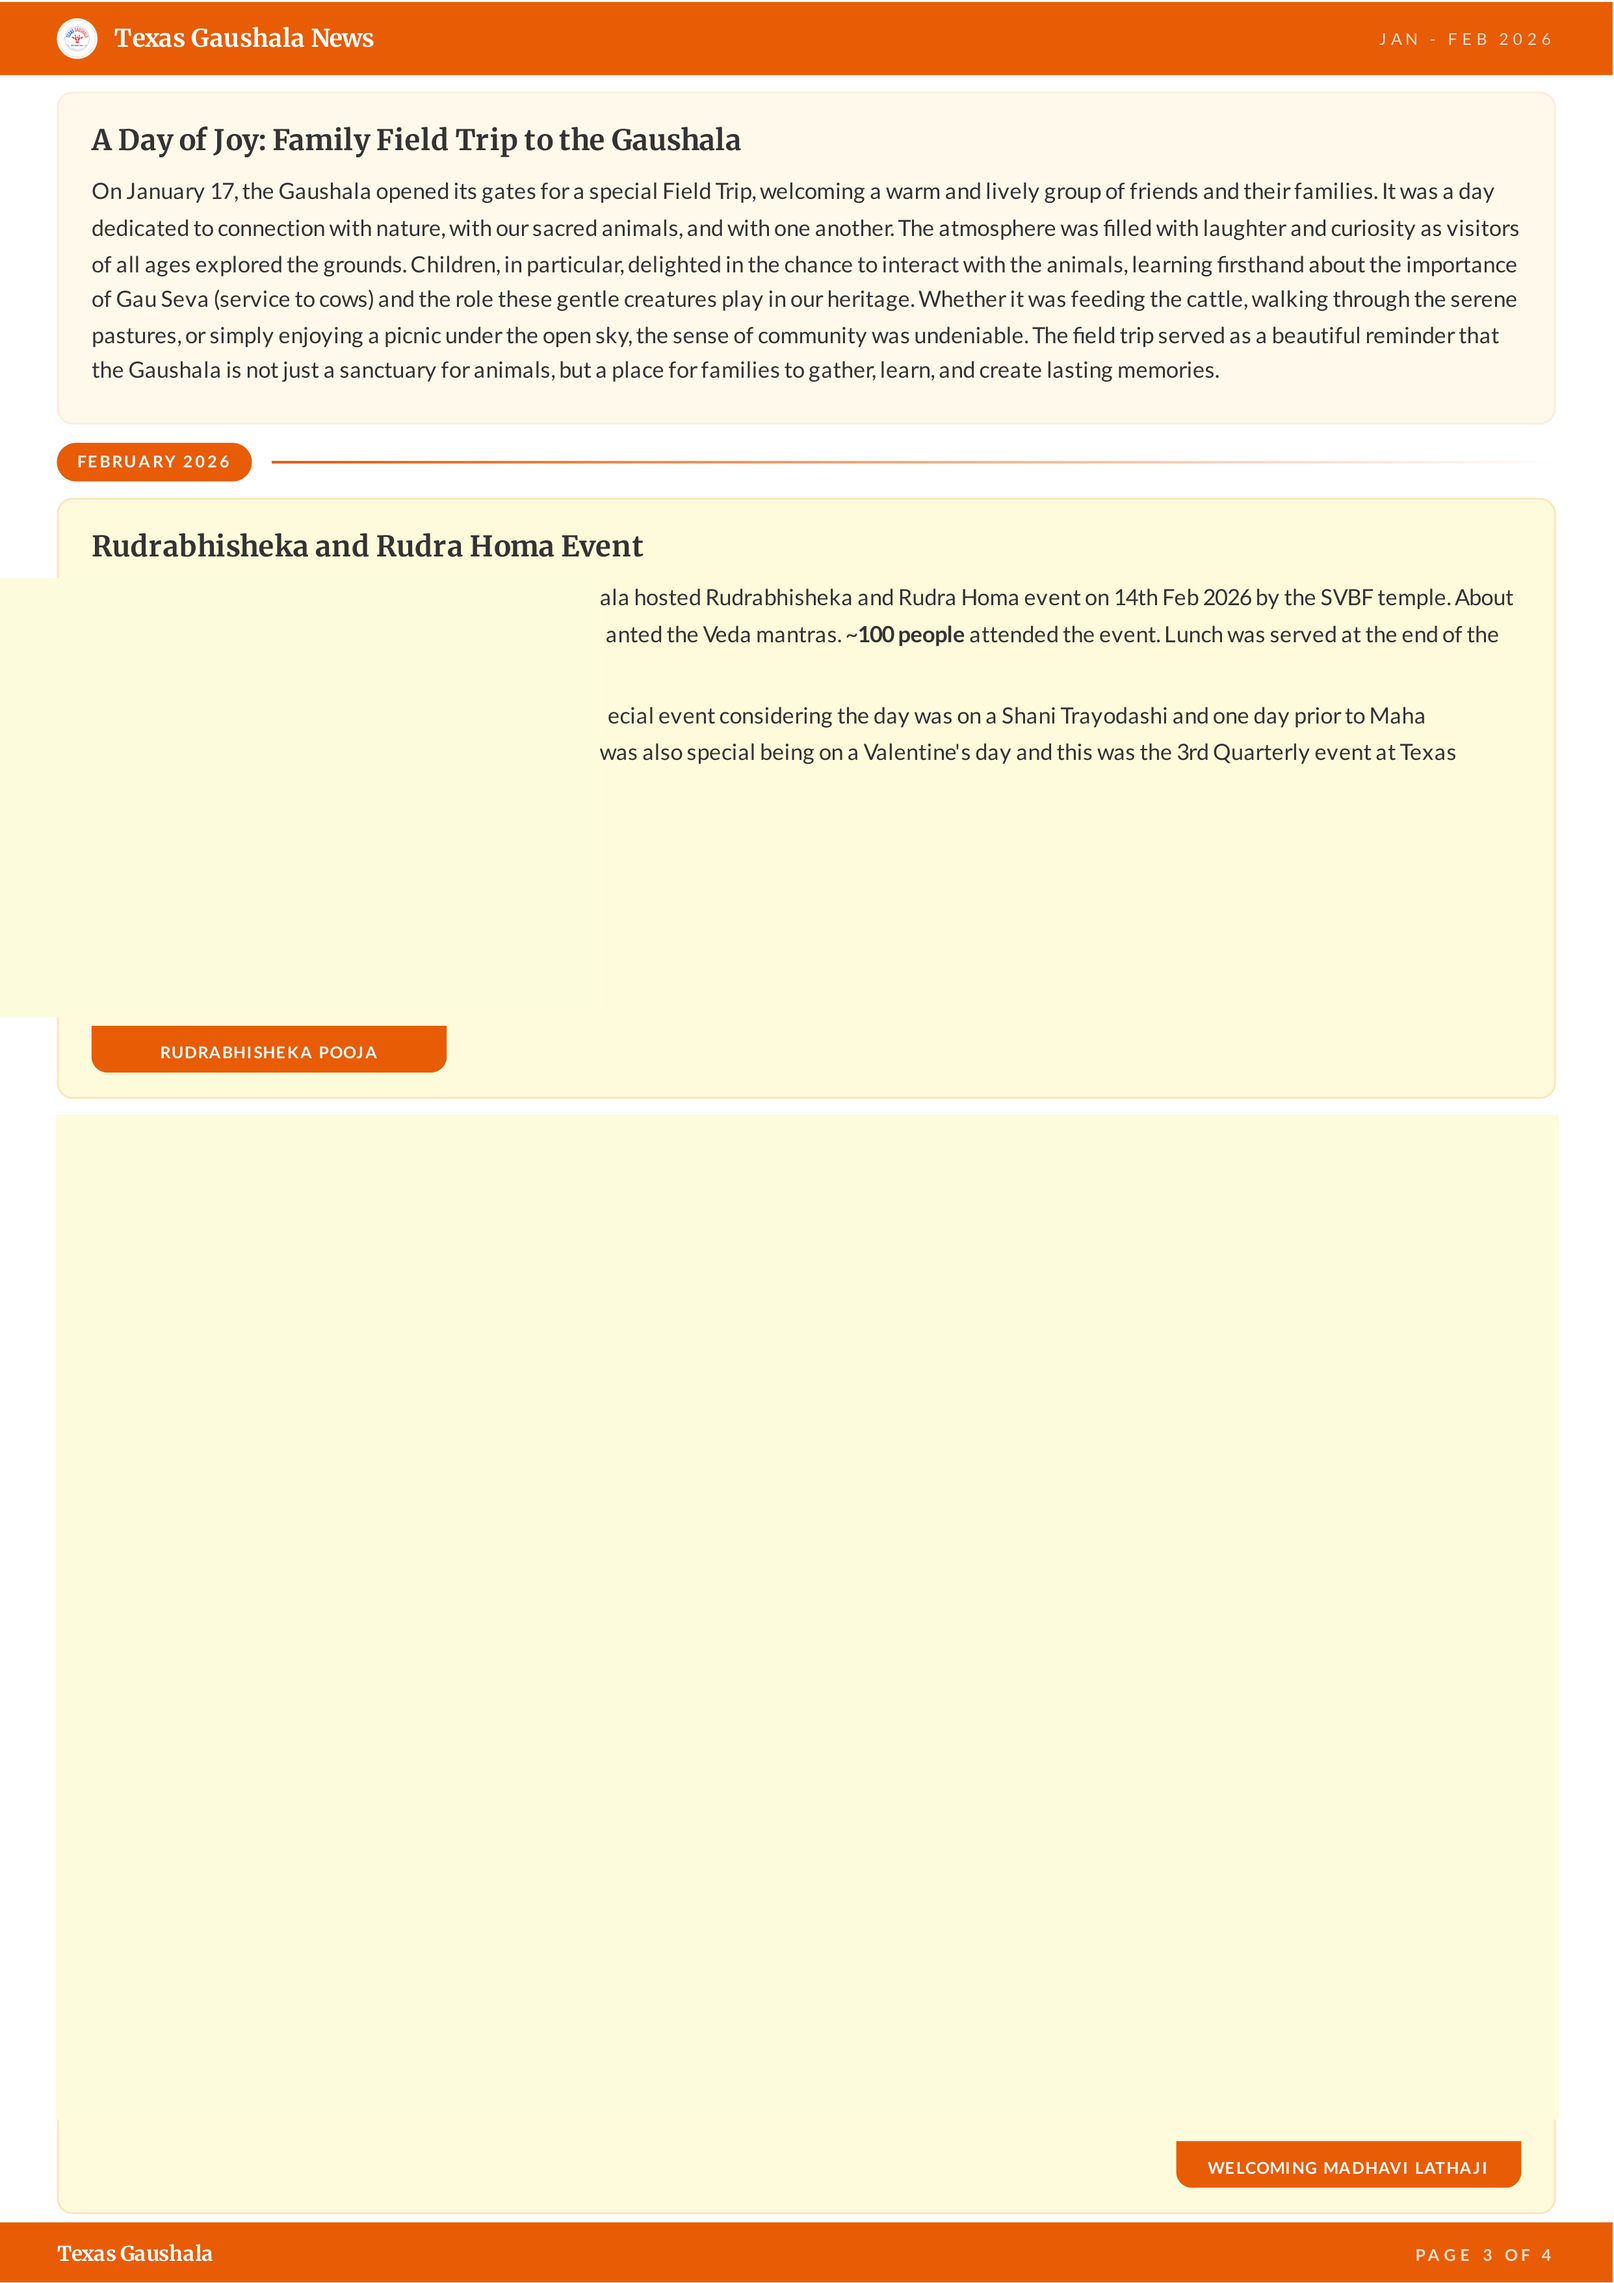
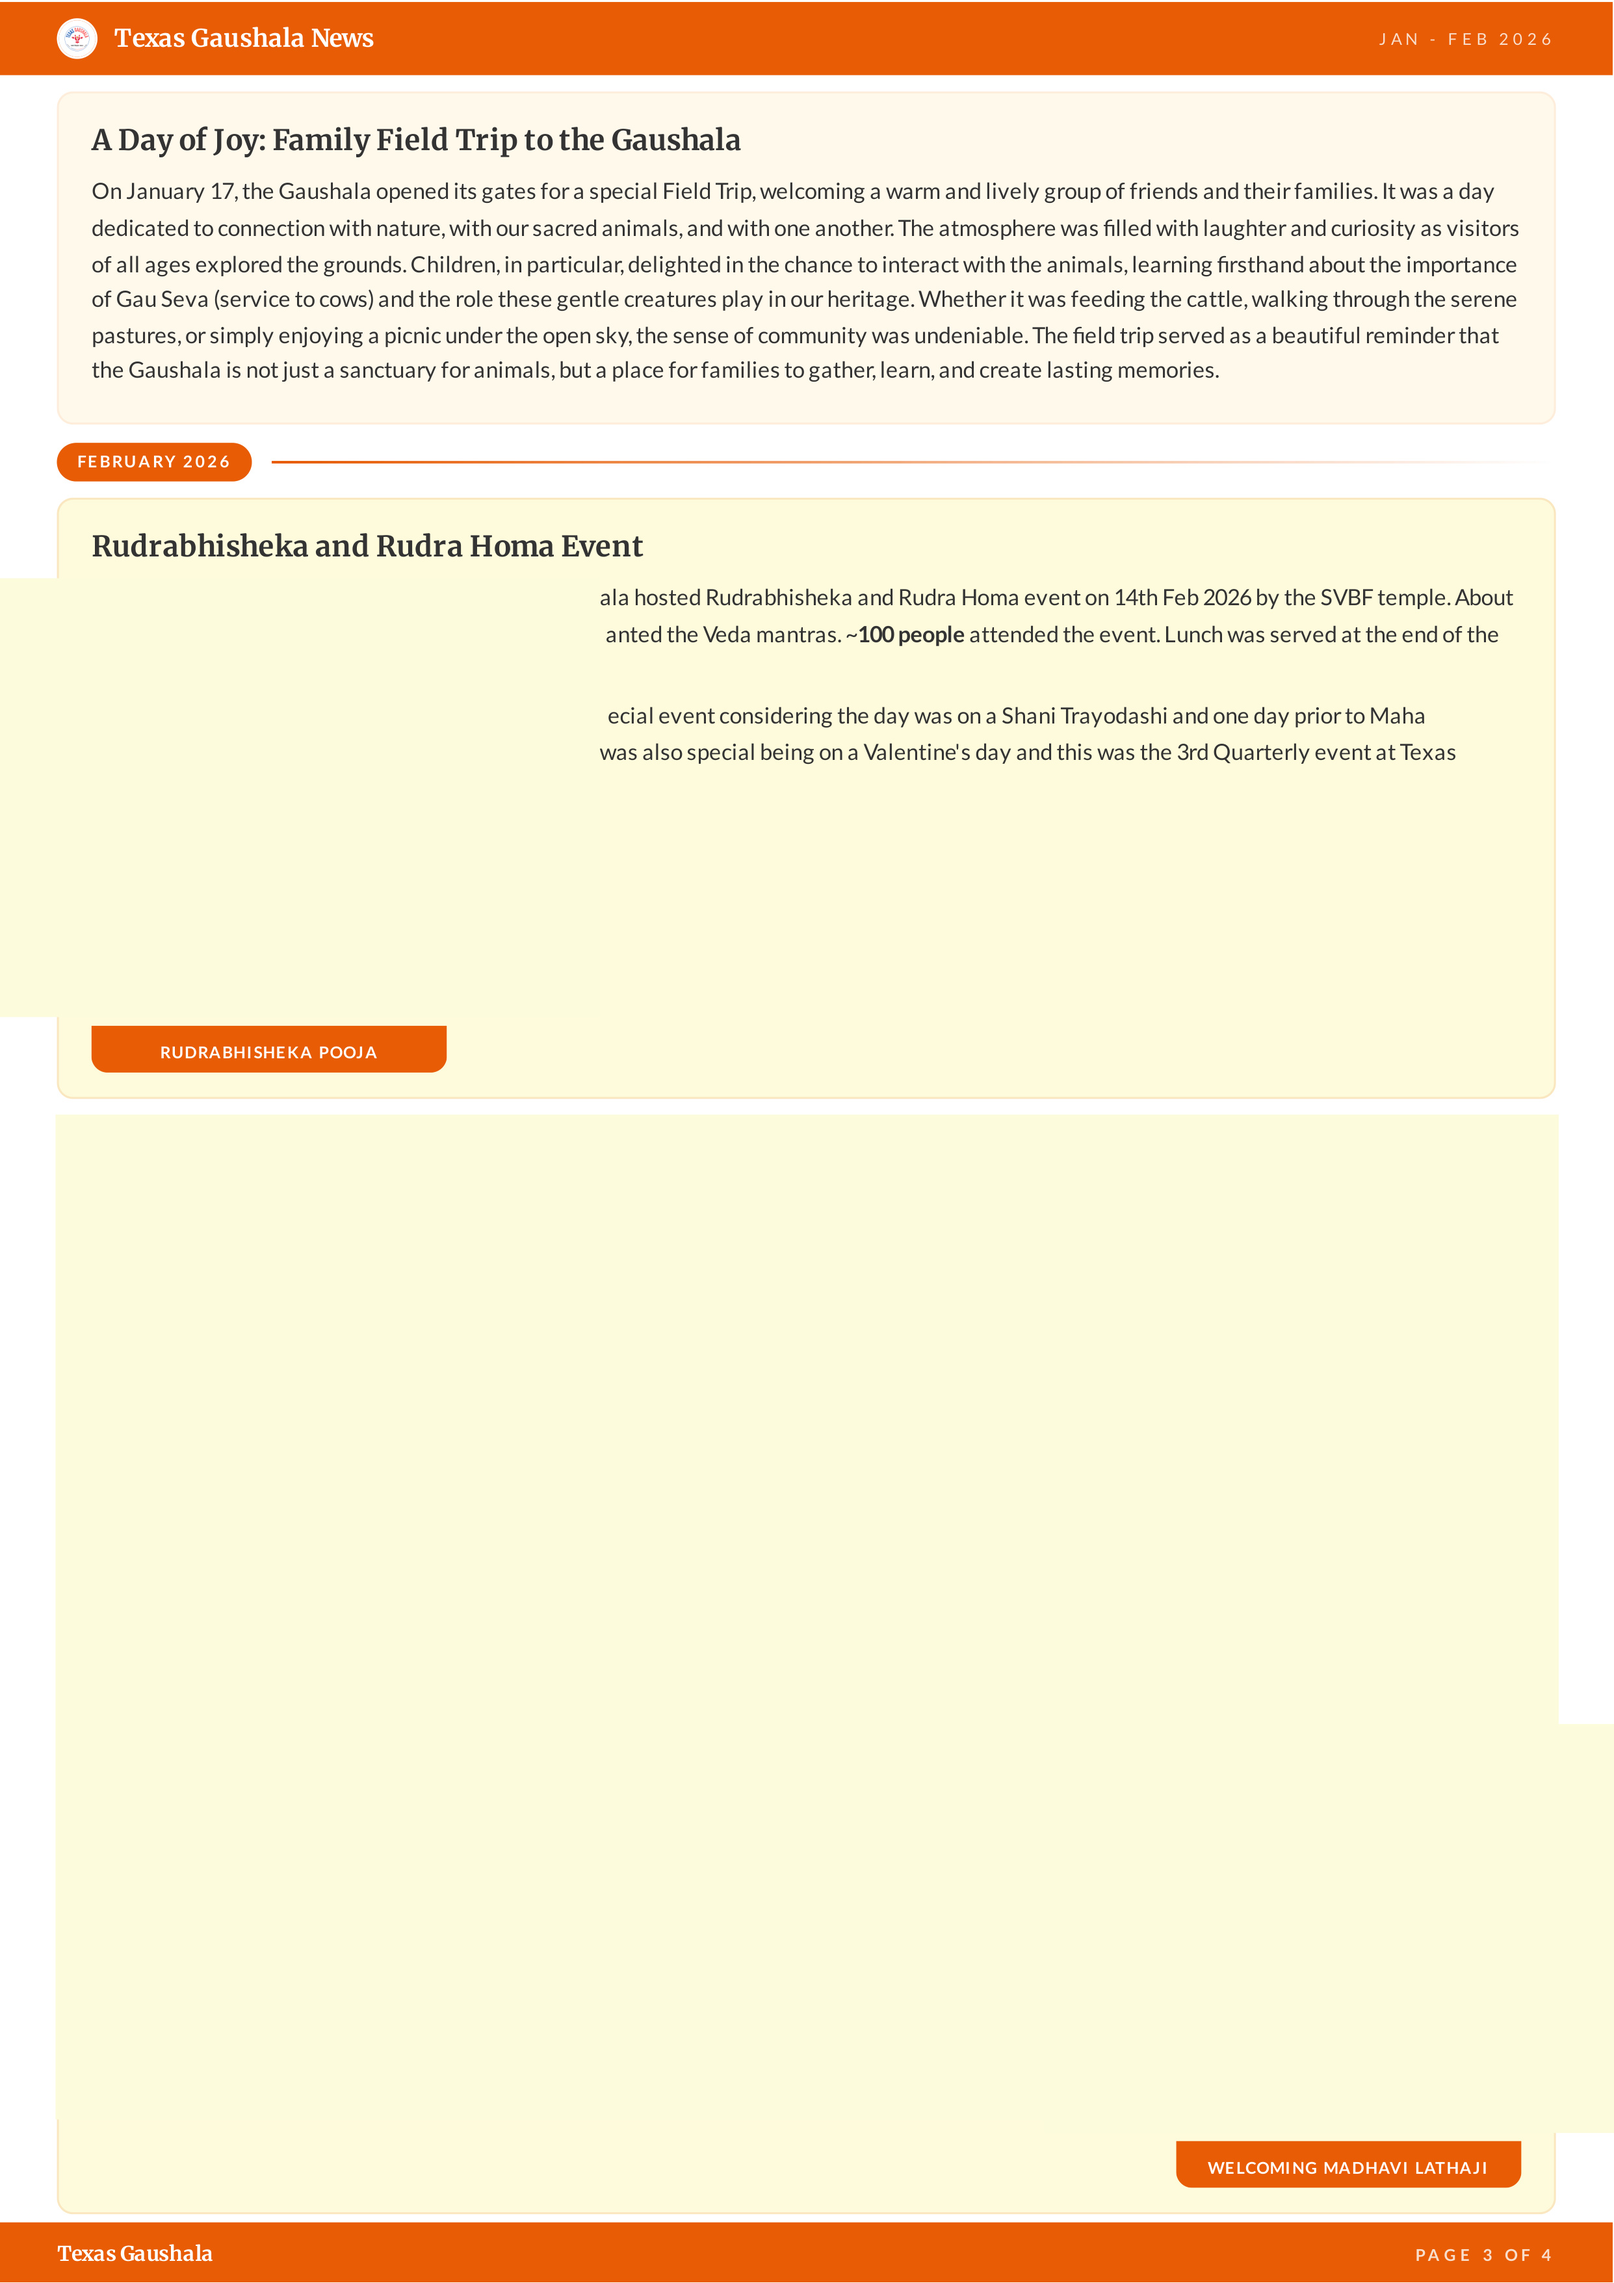
fix: page 3 no overlap - field trip text full width, cards below in cream areas, all photos extracted

Changed region(s): [[0.9613, 0.7449, 1.0, 0.9621]]

diff --git a/index.html b/index.html
@@ -155,25 +155,20 @@ Sacred Pooja: A morning ceremony held at the Gaushala to offer thanks and seek b
 <div class="pw" id="p3">
   <img class="bg" src="images_new/page-3.jpg">
 
-  <!-- P3 Images (original 3512px proportions, PyMuPDF clean render) -->
+  <!-- P3: Logo + header (transparent overlays on original page text) -->
   <div class="iz" id="img-logo-3" data-label="Logo P3" style="left:3.5%;top:0.9%;width:2.2%;height:1.5%;" onclick="si(this)"><span class="lb">Logo</span></div>
-  <!-- P3 Text (transparent .tz overlays, original page text shows through) -->
   <div class="tz" contenteditable="true" style="left:7%;top:1.1%;width:16%;height:1.2%;font-size:12px;font-weight:700;">Texas Gaushala News</div>
-  <div class="tz" contenteditable="true" style="left:77%;top:1.1%;width:21%;height:1%;font-size:8px;letter-spacing:2px;text-align:right;">JAN - FEB 2026</div>
+  <div class="tz" contenteditable="true" style="left:85%;top:1.1%;width:13%;height:1%;font-size:8px;letter-spacing:2px;text-align:right;">JAN - FEB 2026</div>
 
-  <div class="tz" contenteditable="true" style="left:5.5%;top:5.5%;width:45%;height:1.3%;font-size:12px;font-weight:700;font-family:Georgia,serif;">A Day of Joy: Family Field Trip to the Gaushala</div>
-  <div class="tz" contenteditable="true" style="left:5.5%;top:7.5%;width:56%;height:16%;font-size:8.5px;line-height:1.55;font-family:Georgia,serif;"></div>
+  <!-- P3: Field Trip - text from original PDF shows through, NO photo overlay in text zone -->
+  <div class="tz" contenteditable="true" style="left:5.5%;top:5.5%;width:90%;height:1.3%;font-size:12px;font-weight:700;font-family:Georgia,serif;"></div>
+  <div class="tz" contenteditable="true" style="left:5.5%;top:7.6%;width:90%;height:9%;font-size:8.5px;line-height:1.55;font-family:Georgia,serif;"></div>
 
-  <!-- Field Trip photo overlay -->
-  <div class="iz" id="img-field-trip" data-label="Field Trip" style="left:62%;top:5%;width:35%;height:18%;border-radius:6px;overflow:hidden;" onclick="si(this)">
-    <img class="rp" src="images_new/field-trip.jpg" style="width:100%;height:100%;object-fit:cover;object-position:center top;position:absolute;top:0;left:0;">
-    <span class="lb">Field Trip</span>
-  </div>
-
-  <!-- Rudrabhisheka - clean card with photo + text (matching original newsletter style) -->
-  <div style="position:absolute;left:2%;top:24%;width:96%;z-index:10;background:#FDFCDD;border-radius:6px;padding:1.8% 2.5%;box-sizing:border-box;">
+  <!-- P3: Rudra card - positioned in the cream area below field trip text (y=19.5%-46%) -->
+  <div style="position:absolute;left:2%;top:19.5%;width:96%;z-index:10;background:#FDFCDD;border-radius:6px;padding:1.5% 2%;box-sizing:border-box;">
+    <div style="display:inline-block;background:#E85D04;color:#fff;font-size:9px;font-weight:700;letter-spacing:1.5px;padding:4px 12px;border-radius:3px;margin-bottom:8px;">FEBRUARY 2026</div>
     <div contenteditable="true" style="font-size:18px;font-weight:700;font-family:Georgia,serif;color:#333;margin-bottom:10px;">Rudrabhisheka and Rudra Homa Event</div>
-    <div style="display:flex;gap:14px;">
+    <div style="display:flex;gap:14px;align-items:flex-start;">
       <div class="iz" id="img-rudra-ceremony" data-label="Rudra Ceremony" style="position:relative;width:220px;min-width:220px;height:160px;border-radius:6px;overflow:hidden;flex-shrink:0;" onclick="si(this)">
         <img src="images_new/rudra-ceremony.jpg" style="width:100%;height:100%;object-fit:cover;object-position:center top;">
         <span class="lb">Rudra Ceremony</span>
@@ -183,31 +178,33 @@ Sacred Pooja: A morning ceremony held at the Gaushala to offer thanks and seek b
         <div contenteditable="true" style="font-size:13px;line-height:1.65;font-family:Georgia,serif;color:#333;margin-top:8px;">It was very special event considering the day was on a Shani Trayodashi and one day prior to Maha Shivaratri. It was also special being on a Valentine's day and this was the 3rd Quarterly event at Texas Gaushala.</div>
       </div>
     </div>
-    <div style="display:inline-block;background:#E85D04;color:#fff;font-size:10px;font-weight:700;letter-spacing:1.5px;padding:5px 14px;border-radius:4px;margin-top:10px;">RUDRABHISHEKA POOJA</div>
+    <div style="display:inline-block;background:#E85D04;color:#fff;font-size:9px;font-weight:700;letter-spacing:1.5px;padding:4px 12px;border-radius:3px;margin-top:10px;">RUDRABHISHEKA POOJA</div>
   </div>
 
-  <!-- Rudra group photo (full width) -->
-  <div class="iz" id="img-rudra-group" data-label="Rudra Group" style="left:2%;top:47%;width:96%;height:25%;border-radius:6px;overflow:hidden;" onclick="si(this)">
+  <!-- P3: Rudra group photo - full width (y=49%-71%) -->
+  <div class="iz" id="img-rudra-group" data-label="Rudra Group" style="left:2%;top:49%;width:96%;height:22%;border-radius:6px;overflow:hidden;" onclick="si(this)">
     <img src="images_new/rudra-group.jpg" style="width:100%;height:100%;object-fit:cover;object-position:center center;position:absolute;top:0;left:0;">
     <span class="lb">Rudra Group</span>
   </div>
-  <div style="position:absolute;left:15%;top:73%;width:70%;text-align:center;z-index:10;font-size:10px;font-style:italic;color:#666;font-family:Georgia,serif;">Rudra Homa: Ritwiks chanting Veda mantras at Texas Gaushala</div>
+  <div style="position:absolute;left:15%;top:71.5%;width:70%;text-align:center;z-index:10;font-size:10px;font-style:italic;color:#555;font-family:Georgia,serif;">Rudra Homa: Ritwiks chanting Veda mantras at Texas Gaushala</div>
 
-  <!-- Madhavi section - clean card with text + photo right -->
-  <div style="position:absolute;left:2%;top:76%;width:96%;z-index:10;background:#FDFCDD;border-radius:6px;padding:1.8% 2.5%;box-sizing:border-box;">
+  <!-- P3: Madhavi card - cream area (y=73.5%-96%) -->
+  <div style="position:absolute;left:2%;top:73.5%;width:96%;z-index:10;background:#FDFCDD;border-radius:6px;padding:1.5% 2%;box-sizing:border-box;">
     <div contenteditable="true" style="font-size:18px;font-weight:700;font-family:Georgia,serif;color:#333;margin-bottom:10px;">Madhavi Lathaji Visited Gaushala</div>
-    <div style="display:flex;gap:14px;">
+    <div style="display:flex;gap:14px;align-items:flex-start;">
       <div style="flex:1;">
         <div contenteditable="true" style="font-size:13px;line-height:1.65;font-family:Georgia,serif;color:#333;">Kompella Madhavi Latha is a prominent Indian politician, entrepreneur, and philanthropist associated with the Bharatiya Janata Party (BJP) in Telangana. She contested as the BJP candidate for the Hyderabad Lok Sabha constituency in the 2024 general elections.</div>
-        <div contenteditable="true" style="font-size:13px;line-height:1.65;font-family:Georgia,serif;color:#333;margin-top:8px;">Texas Gaushala was honored to host Madhavi Lathaji today. Her insightful talk placed the sacred cow at the heart of the conversation, covering a range of profound topics. Our sincere thanks to her and her dedicated team for making this visit possible.</div>
+        <div contenteditable="true" style="font-size:13px;line-height:1.65;font-family:Georgia,serif;color:#333;margin-top:8px;">Texas Gaushala was honored to host Madhavi Lathaji. Her insightful talk placed the sacred cow at the heart of the conversation, covering a range of profound topics. Our sincere thanks to her and her dedicated team for making this visit possible.</div>
       </div>
-      <div class="iz" id="img-madhavi-welcome" data-label="Madhavi Welcome" style="position:relative;width:200px;min-width:200px;height:240px;border-radius:6px;overflow:hidden;flex-shrink:0;" onclick="si(this)">
+      <div class="iz" id="img-madhavi-welcome" data-label="Madhavi Welcome" style="position:relative;width:180px;min-width:180px;height:220px;border-radius:6px;overflow:hidden;flex-shrink:0;" onclick="si(this)">
         <img src="images_new/madhavi-welcome.jpg" style="width:100%;height:100%;object-fit:cover;object-position:center top;">
         <span class="lb">Madhavi Welcome</span>
       </div>
     </div>
-    <div style="text-align:right;"><div style="display:inline-block;background:#E85D04;color:#fff;font-size:10px;font-weight:700;letter-spacing:1.5px;padding:5px 14px;border-radius:4px;margin-top:10px;">WELCOMING MADHAVI LATHAJI</div></div>
+    <div style="text-align:right;"><div style="display:inline-block;background:#E85D04;color:#fff;font-size:9px;font-weight:700;letter-spacing:1.5px;padding:4px 12px;border-radius:3px;margin-top:8px;">WELCOMING MADHAVI LATHAJI</div></div>
   </div>
+
+  <!-- P3: Footer -->
   <div class="tz" contenteditable="true" style="left:3%;top:97.5%;width:12%;height:1%;font-size:10px;font-weight:700;">Texas Gaushala</div>
   <div class="tz" contenteditable="true" style="left:85%;top:97.5%;width:13%;height:0.8%;font-size:7px;letter-spacing:2px;text-align:right;">PAGE 3 OF 4</div>
 </div>
